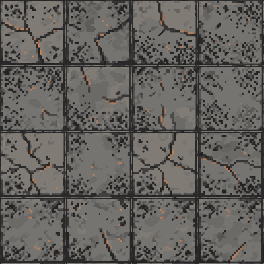
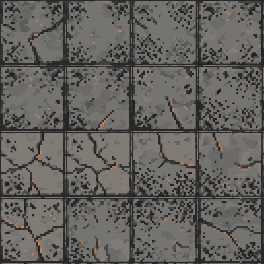
Order the sixteen by similarity, then blend hard enough that the joins stop existing
The ground read as long straight runs of one tile. Three things fix it together, and each
one ALONE was tried and looked worse than doing nothing -- both failures are why the
comments are worth keeping.

**The atlas is ordered by similarity.** The shader picks a variation with
`floor(noise * 16)` -- a smooth field walking the index -- so what a player actually sees
at a quantisation step is variation n meeting n+1. In generator order that pairing is
arbitrary, and an arbitrary pair of these differs enormously (mean distance 25.1 on
desert, 76.1 on tundra), so every step in the field is a visible border. Ordering the
atlas so adjacent indices are the two most-alike drawings drops that adjacency cost by
20-48% -- tundra 1188 -> 621 -- and NOTHING IN THE SHADER CHANGES. Greedy nearest
neighbour from the best start, then 2-opt; an open path, not a cycle, since 15 never
neighbours 0.

**A cell's variation is the field's index jittered by ONE**, which is only meaningful
because of the ordering: ±1 now means "the most similar tile in the set" instead of "any
of the other fifteen".

**And the three cells overlapping any point are blended widely** (`DETILE_SHARP` 1.5,
near-linear), with each cell's UV ORIGIN randomised so one drawing never repeats on a
lattice. A triangular lattice rather than square cells, because a square grid of random
offsets just replaces one visible grid with another.

⚠ TWO ATTEMPTS THAT LOOKED WORSE, BOTH INSTRUCTIVE:
[…]

diff --git a/client/scripts/pack_ground_atlas.py b/client/scripts/pack_ground_atlas.py
@@ -80,6 +80,66 @@ def write_png(path, w, h, px):
                      + chunk(b"IDAT", zlib.compress(raw, 9)) + chunk(b"IEND", b""))
 
 
+def tile_distance(a, b):
+    """Mean per-channel difference between two tiles, on a coarse grid.
+
+    Coarse on purpose: this is asking "would these two read as the same ground", not
+    "are these the same image". Comparing at full resolution scores two tiles of identical
+    material with differently-placed pebbles as far apart, which is exactly the pair we
+    most want to call similar.
+    """
+    step, tot, n = 8, 0, 0
+    for y in range(0, CELL, step):
+        for x in range(0, CELL, step):
+            o = (y * CELL + x) * 4
+            tot += sum(abs(a[o + k] - b[o + k]) for k in range(3))
+            n += 3
+    return tot / n
+
+
+def order_by_similarity(tiles):
+    """Lay the sixteen out so NEIGHBOURING INDICES ARE THE MOST ALIKE.
+
+    The shader picks a variation with `floor(noise * 16)` — a smooth field walking the
+    index — so what a player sees at a quantisation step is variation `i` meeting `i+1`.
+    In generator order that pairing is arbitrary, and an arbitrary pair of these differs a
+    lot (measured mean distance 25.1 on desert), so every step in the field is a visible
+    border. Order the atlas by similarity and the same field steps between tiles that
+    already look alike: the borders do not need hiding because they stop existing.
+
+    Nothing in the shader changes. This is the whole fix, and it lives in the ART.
+
+    Greedy nearest-neighbour from the best start, then 2-opt — an open path, not a cycle,
+    because index 15 never neighbours index 0.
+    """
+    n = len(tiles)
+    d = [[tile_distance(tiles[i], tiles[j]) for j in range(n)] for i in range(n)]
+
+    def cost(p):
+        return sum(d[p[i]][p[i + 1]] for i in range(len(p) - 1))
+
+    best = None
+    for start in range(n):                       # every start, keep the cheapest chain
+        left, path = set(range(n)) - {start}, [start]
+        while left:
+            nxt = min(left, key=lambda j: d[path[-1]][j])
+            path.append(nxt); left.discard(nxt)
+        if best is None or cost(path) < cost(best):
+            best = path
+
+    improved = True                              # 2-opt: uncross the chain
+    while improved:
+        improved = False
+        for i in range(1, n - 1):
+            for j in range(i + 1, n):
+                cand = best[:i] + best[i:j + 1][::-1] + best[j + 1:]
+                if cost(cand) < cost(best) - 1e-9:
+                    best, improved = cand, True
+    print(f"    ordered by similarity: adjacent-pair cost {cost(best):.1f}"
+          f" (generator order was {cost(list(range(n))):.1f})")
+    return [tiles[i] for i in best]
+
+
 def place(atlas, tile, gx, gy):
     """Blit one 64px tile into its cell, ringed by a 1px gutter of its own opposite edge.
 
@@ -99,6 +159,8 @@ def main():
                                  formatter_class=argparse.RawDescriptionHelpFormatter)
     ap.add_argument("--repack", action="store_true",
                     help="src is an existing unpadded 4x4 atlas, not a directory of tiles")
+    ap.add_argument("--keep-order", action="store_true",
+                    help="skip the similarity ordering and lay tiles out as given")
     ap.add_argument("src", type=pathlib.Path)
     ap.add_argument("dst", type=pathlib.Path)
     a = ap.parse_args()
@@ -125,6 +187,8 @@ def main():
                 sys.exit(f"{f.name}: {w}x{h}, expected {CELL}x{CELL}")
             tiles.append(px)
 
+    if not a.keep_order:
+        tiles = order_by_similarity(tiles)
     atlas = bytearray(SIDE * SIDE * 4)
     for i, t in enumerate(tiles):
         place(atlas, t, i % GRID, i // GRID)
